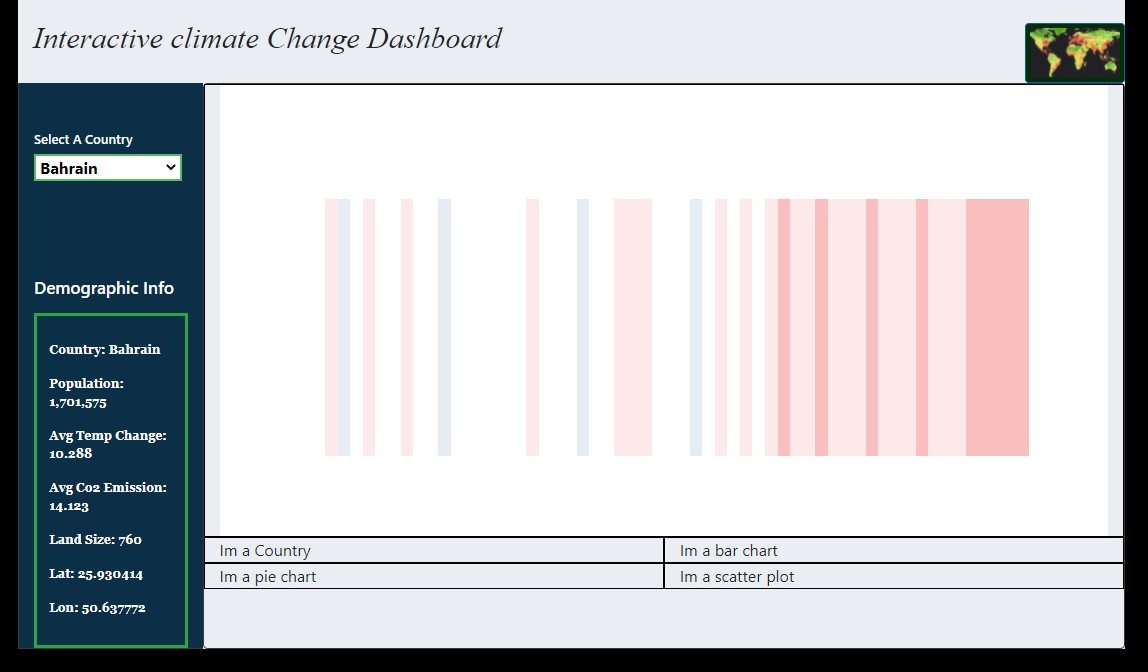
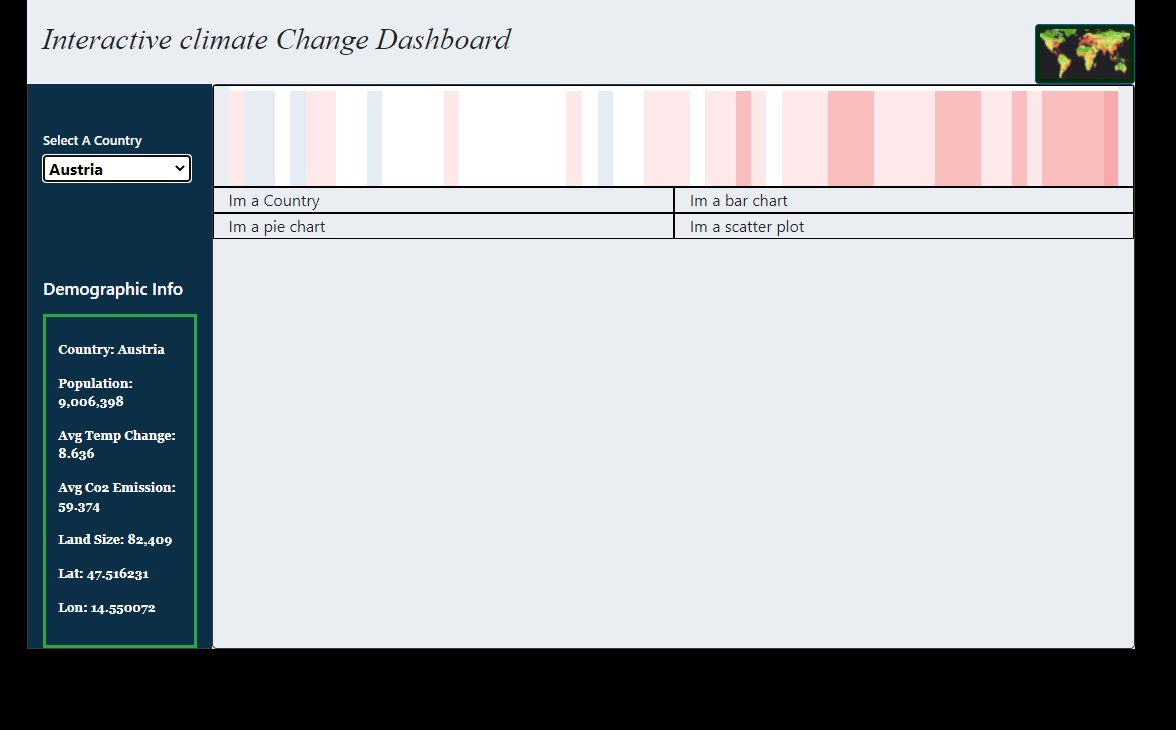
update stripy

Changed region(s): [[0.0, 0.0, 1.0, 0.9688]]

diff --git a/static/js/stripe_chart.js b/static/js/stripe_chart.js
@@ -101,6 +101,14 @@ function stripe_chart (tempData) {
     }]
     var layout = {
         showlegend: false,
+        margin: {
+            l: 0,
+            r: 0,
+            b: 0,
+            t: 0,
+            pad: 0
+        },
+        
         xaxis: {
             visible:false
         },

diff --git a/static/js/JQueryRenderHTML.js b/static/js/JQueryRenderHTML.js
@@ -69,6 +69,7 @@ addDom = (country) => {
     //Render Charts when DOM elements are ready
 
     plotCharts(country);
+    $("div#warming-stripes").css("height",'100')
 
 
 
